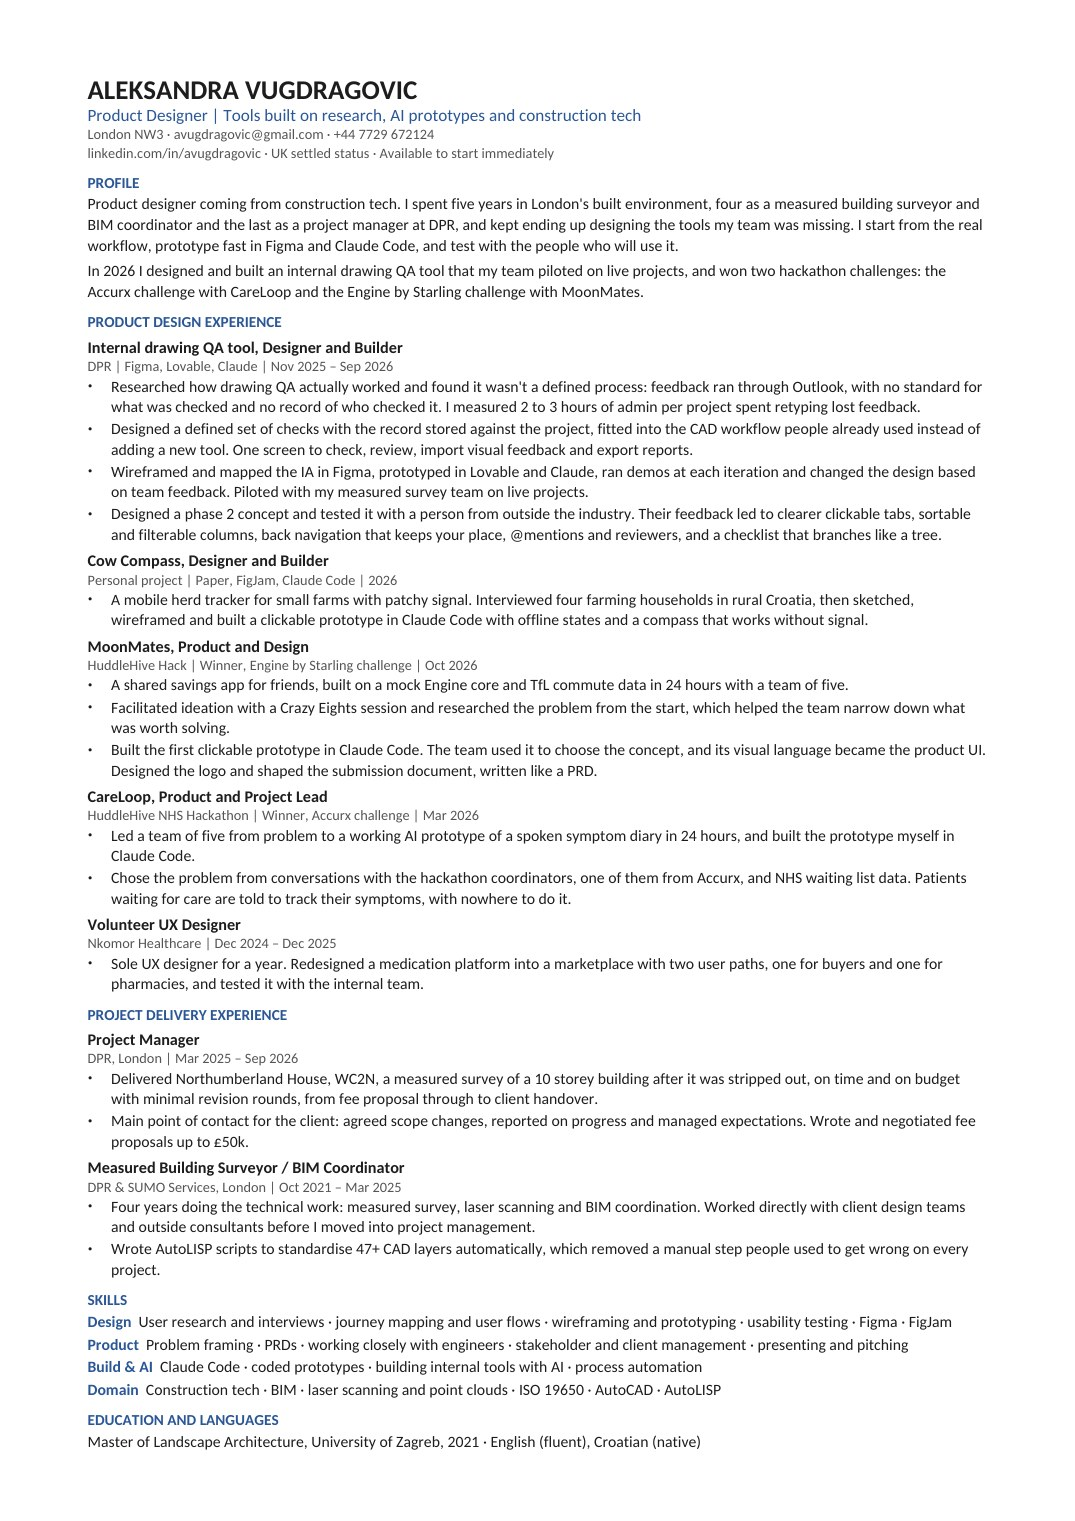
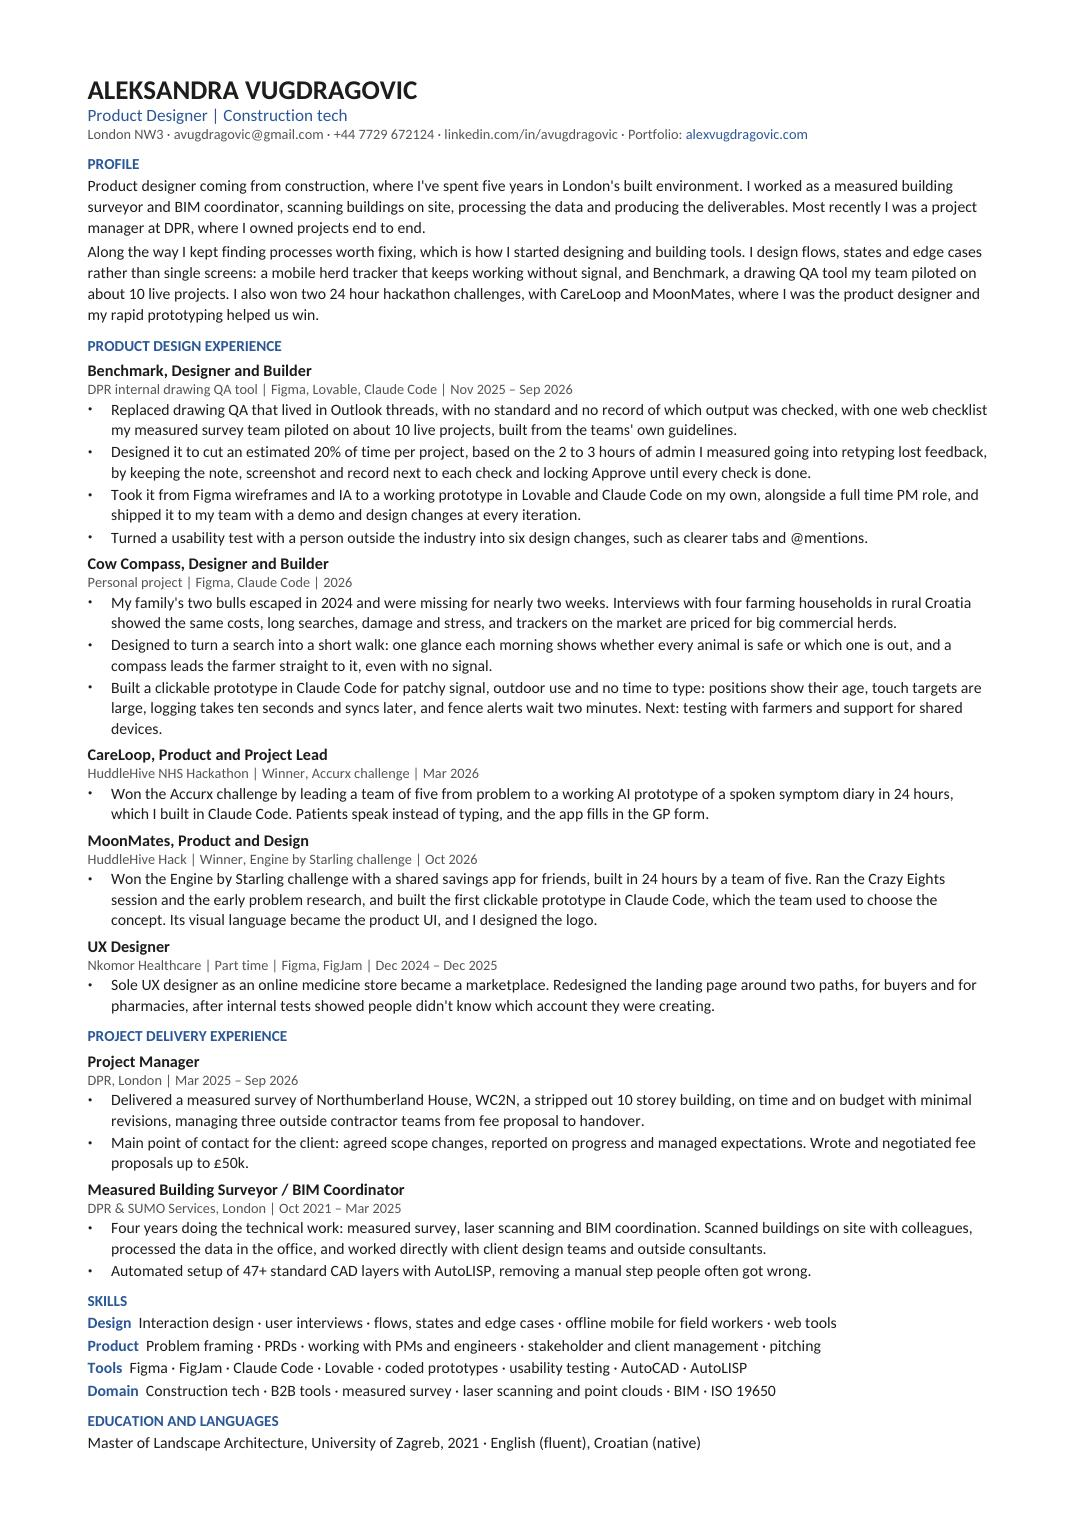
Put the Aphex CV live and name the QA tool Benchmark
The CV window now shows the CV sent to Aphex on 19 Oct, with the QA tool
named Benchmark. The case study, desktop icon, buttons and meta text use
the new name. The #qa-tool address stays so existing links keep working.

Changed region(s): [[0.0614, 0.0618, 0.9209, 0.9579], [0.6447, 0.0618, 0.706, 0.0927]]

diff --git a/site/index.html b/site/index.html
@@ -3,11 +3,11 @@
 <head>
 <meta charset="utf-8">
 <meta name="viewport" content="width=device-width,initial-scale=1,viewport-fit=cover">
-<meta name="description" content="Alex Vugdragovic: product design portfolio. A drawing QA tool piloted at DPR, and MoonMates, a hackathon win.">
+<meta name="description" content="Alex Vugdragovic: product design portfolio. Benchmark, a drawing QA tool piloted at DPR, and MoonMates, a hackathon win.">
 <meta property="og:type" content="website">
 <meta property="og:url" content="https://alexvugdragovic.com/">
 <meta property="og:title" content="Alex Vugdragovic, product design portfolio">
-<meta property="og:description" content="A drawing QA tool piloted at DPR, and MoonMates, a hackathon win.">
+<meta property="og:description" content="Benchmark, a drawing QA tool piloted at DPR, and MoonMates, a hackathon win.">
 <meta property="og:image" content="https://alexvugdragovic.com/media/og.png">
 <meta property="og:image:width" content="1200">
 <meta property="og:image:height" content="630">
@@ -407,7 +407,7 @@ ul.ticks li::before{content:"";position:absolute;left:2px;top:.55em;width:9px;he
     "notion": "https://avugdragovic.notion.site/portfolio"
   },
   "projects": [
-    {"id":"qa-tool","title":"Drawing QA tool","accent":"#3FC1B0","status":"case","meta":"DPR · internal tool · 2025–2026","badge":"piloted",
+    {"id":"qa-tool","title":"Benchmark","accent":"#3FC1B0","status":"case","meta":"DPR · internal tool · 2025–2026","badge":"piloted",
      "summary":"Drawing QA at DPR ran through Outlook, with no shared standard and no record of who checked what. I designed one checklist that keeps the feedback with the project, built the prototype with Lovable and Claude, and piloted it on about 10 projects in my team."},
     {"id":"moonmates","title":"MoonMates","accent":"#FF6B4A","status":"case","meta":"Hackathon · Oct 2026","badge":"winner",
      "summary":"A shared savings app for the friends you keep meaning to see. Won the Engine by Starling challenge at HuddleHive Hack."},
@@ -430,9 +430,9 @@ ul.ticks li::before{content:"";position:absolute;left:2px;top:.55em;width:9px;he
       </div>
     </div>
     <p class="lead">After five years working with spatial data and delivering projects, I now design products. Along the way I kept finding <span class="hl">processes worth fixing</span>, which is how I started designing and building tools.</p>
-    <p><span class="only-desk">This desktop is my portfolio.</span><span class="only-doc">This page is my portfolio.</span> Start with the <b>QA tool</b> I designed and piloted at DPR, or <b>MoonMates</b>, a hackathon win. Everything else is in <b>work/</b>.</p>
+    <p><span class="only-desk">This desktop is my portfolio.</span><span class="only-doc">This page is my portfolio.</span> Start with <b>Benchmark</b>, the drawing QA tool I designed and piloted at DPR, or <b>MoonMates</b>, a hackathon win. Everything else is in <b>work/</b>.</p>
     <div class="btnrow">
-      <button class="btn primary" data-open="qa-tool">Open QA tool</button>
+      <button class="btn primary" data-open="qa-tool">Open Benchmark</button>
       <button class="btn primary" data-open="moonmates">Open MoonMates</button>
       <button class="btn" data-open="work">See all work</button>
       <button class="btn" data-open="about">About</button>
@@ -894,7 +894,7 @@ ul.ticks li::before{content:"";position:absolute;left:2px;top:.55em;width:9px;he
     <div class="stack" style="gap:8px"><span class="k">about.txt</span><h2>From delivering projects to designing products</h2>
       <p class="lead">Hi, I'm Alex, a <span class="hl">Product Designer</span> based in London.</p></div>
     <div class="stack" style="gap:6px"><h3>Background</h3><p>Before moving into design, I spent five years in measured building surveys, laser scanning sites, processing point cloud data, and managing complex spatial data projects from site to client handover. Because I’ve been the end user on the ground, I bring firsthand empathy to highly technical workflows.</p></div>
-    <div class="stack" style="gap:6px"><h3>How I moved into design</h3><p>My transition into design began when I started building tools to fix broken workflows. At DPR, I designed a <a href="#qa-tool" data-open="qa-tool">drawing QA tool</a> that was successfully piloted on about 10 projects. Since then, I’ve sharpened my rapid prototyping skills, recently winning the <a href="#careloop" data-open="careloop">Accurx challenge</a> and the <a href="#moonmates" data-open="moonmates">Engine by Starling challenge</a> at two 2026 hackathons.</p></div>
+    <div class="stack" style="gap:6px"><h3>How I moved into design</h3><p>My transition into design began when I started building tools to fix broken workflows. At DPR, I designed <a href="#qa-tool" data-open="qa-tool">Benchmark</a>, a drawing QA tool that was successfully piloted on about 10 projects. Since then, I’ve sharpened my rapid prototyping skills, recently winning the <a href="#careloop" data-open="careloop">Accurx challenge</a> and the <a href="#moonmates" data-open="moonmates">Engine by Starling challenge</a> at two 2026 hackathons.</p></div>
     <div class="lookfor"><span class="k">What I'm looking for</span><p>I am currently looking for a <b class="hl">Product Design role in Construction Tech or Geospatial</b>, where I can leverage my domain expertise to build products that solve real industry bottlenecks.</p></div>
     <p>My full work history is in my CV. <button class="btn sm" data-open="cv">Open CV.pdf</button></p>
     <div class="stack about-contact" style="gap:10px">
@@ -911,8 +911,8 @@ ul.ticks li::before{content:"";position:absolute;left:2px;top:.55em;width:9px;he
 <template id="t-qa">
   <article class="stack-l">
     <header class="stack" style="gap:10px">
-      <div class="pillrow"><span class="pill piloted">Piloted</span><span class="pill">Internal tool</span><span class="pill">DPR · measured survey</span></div>
-      <h1>Drawing QA tool</h1>
+      <div class="pillrow"><span class="pill piloted">Piloted</span><span class="pill">Drawing QA tool</span><span class="pill">DPR · measured survey</span></div>
+      <h1>Benchmark</h1>
       <p class="lead">Drawing QA at DPR ran through Outlook threads, with no shared standard and no record of who checked what. I designed one checklist that keeps the feedback and the record with the project, built the prototype with Lovable and Claude alongside my PM job, and piloted it on about 10 projects in my team.</p>
     </header>
 
@@ -986,7 +986,7 @@ ul.ticks li::before{content:"";position:absolute;left:2px;top:.55em;width:9px;he
           <p>Sorting the pain points by who raised them split them into two problems. QA happened on every project and rework started there, so I built for that.</p>
         </div>
       </div>
-      <div class="diagram-wrap"><svg class="diagram" viewBox="0 0 760 324" role="img" aria-label="Research found two problems, project management and quality assurance. Only quality assurance became the tool." font-family="DM Sans, sans-serif" font-size="13"><defs><marker id="scope-arrow" viewBox="0 0 10 10" refX="9" refY="5" markerWidth="6" markerHeight="6" orient="auto-start-reverse"><path d="M0 0L10 5L0 10z" fill="#16181F"/></marker></defs><text x="24" y="34" font-size="16" font-weight="700" font-family="Space Grotesk, sans-serif" fill="#16181F">Research found two problems. I built for one.</text><rect x="24" y="56" width="340" height="156" rx="8" fill="#FBF9F4" stroke="#16181F" stroke-width="1.5"/><text x="40" y="82" font-size="15" font-weight="700" font-family="Space Grotesk, sans-serif" fill="#16181F">Project management</text><text x="40" y="100" font-size="11.5" fill="#585D69">raised by people managing contractors</text><text x="40" y="128" fill="#16181F">Deadlines missed without notice</text><text x="40" y="150" fill="#16181F">No view of the budget on a project</text><text x="40" y="172" fill="#16181F">Unclear stage when someone is on leave</text><text x="40" y="194" fill="#16181F">Progress tracked in separate spreadsheets</text><rect x="396" y="56" width="340" height="156" rx="8" fill="#FBF9F4" stroke="#16181F" stroke-width="1.5"/><text x="412" y="82" font-size="15" font-weight="700" font-family="Space Grotesk, sans-serif" fill="#16181F">Quality assurance</text><text x="412" y="100" font-size="11.5" fill="#585D69">raised by people doing the QA</text><text x="412" y="128" fill="#16181F">No shared QA process across teams</text><text x="412" y="150" fill="#16181F">Feedback sent as screenshots in emails</text><text x="412" y="172" fill="#16181F">No record of who checked what</text><text x="412" y="194" fill="#16181F">No shared examples of good practice</text><g fill="none" stroke="#16181F" stroke-width="1.5" marker-end="url(#scope-arrow)"><path d="M194 212V244"/><path d="M566 212V244"/></g><rect x="24" y="244" width="340" height="56" rx="8" fill="none" stroke="#585D69" stroke-width="1.5" stroke-dasharray="5 5"/><text x="194" y="268" text-anchor="middle" font-weight="700" fill="#585D69">Left out</text><text x="194" y="286" text-anchor="middle" font-size="11.5" fill="#585D69">needs a project management tool, not a QA tool</text><rect x="396" y="244" width="340" height="56" rx="8" fill="rgba(63,193,176,.2)" stroke="#1F8F80" stroke-width="2"/><text x="566" y="268" text-anchor="middle" font-weight="700" fill="#16181F">Built: QA tool</text><text x="566" y="286" text-anchor="middle" font-size="11.5" fill="#16181F">Checklist · Screenshots · Report</text></svg></div>
+      <div class="diagram-wrap"><svg class="diagram" viewBox="0 0 760 324" role="img" aria-label="Research found two problems, project management and quality assurance. Only quality assurance became the tool." font-family="DM Sans, sans-serif" font-size="13"><defs><marker id="scope-arrow" viewBox="0 0 10 10" refX="9" refY="5" markerWidth="6" markerHeight="6" orient="auto-start-reverse"><path d="M0 0L10 5L0 10z" fill="#16181F"/></marker></defs><text x="24" y="34" font-size="16" font-weight="700" font-family="Space Grotesk, sans-serif" fill="#16181F">Research found two problems. I built for one.</text><rect x="24" y="56" width="340" height="156" rx="8" fill="#FBF9F4" stroke="#16181F" stroke-width="1.5"/><text x="40" y="82" font-size="15" font-weight="700" font-family="Space Grotesk, sans-serif" fill="#16181F">Project management</text><text x="40" y="100" font-size="11.5" fill="#585D69">raised by people managing contractors</text><text x="40" y="128" fill="#16181F">Deadlines missed without notice</text><text x="40" y="150" fill="#16181F">No view of the budget on a project</text><text x="40" y="172" fill="#16181F">Unclear stage when someone is on leave</text><text x="40" y="194" fill="#16181F">Progress tracked in separate spreadsheets</text><rect x="396" y="56" width="340" height="156" rx="8" fill="#FBF9F4" stroke="#16181F" stroke-width="1.5"/><text x="412" y="82" font-size="15" font-weight="700" font-family="Space Grotesk, sans-serif" fill="#16181F">Quality assurance</text><text x="412" y="100" font-size="11.5" fill="#585D69">raised by people doing the QA</text><text x="412" y="128" fill="#16181F">No shared QA process across teams</text><text x="412" y="150" fill="#16181F">Feedback sent as screenshots in emails</text><text x="412" y="172" fill="#16181F">No record of who checked what</text><text x="412" y="194" fill="#16181F">No shared examples of good practice</text><g fill="none" stroke="#16181F" stroke-width="1.5" marker-end="url(#scope-arrow)"><path d="M194 212V244"/><path d="M566 212V244"/></g><rect x="24" y="244" width="340" height="56" rx="8" fill="none" stroke="#585D69" stroke-width="1.5" stroke-dasharray="5 5"/><text x="194" y="268" text-anchor="middle" font-weight="700" fill="#585D69">Left out</text><text x="194" y="286" text-anchor="middle" font-size="11.5" fill="#585D69">needs a project management tool, not a QA tool</text><rect x="396" y="244" width="340" height="56" rx="8" fill="rgba(63,193,176,.2)" stroke="#1F8F80" stroke-width="2"/><text x="566" y="268" text-anchor="middle" font-weight="700" fill="#16181F">Built: Benchmark</text><text x="566" y="286" text-anchor="middle" font-size="11.5" fill="#16181F">Checklist · Screenshots · Report</text></svg></div>
       <div class="decisions">
         <div class="decision">
           <svg class="sym" viewBox="0 0 44 44" aria-hidden="true"><rect x="6" y="5" width="32" height="34" rx="4" fill="#FBF9F4" stroke="#16181F" stroke-width="2"/><path d="M12 15l3 3 6-6M12 26l3 3 6-6" fill="none" stroke="#1F8F80" stroke-width="2.5" stroke-linecap="round" stroke-linejoin="round"/><path d="M25 16h8M25 27h8" stroke="#16181F" stroke-width="2" stroke-linecap="round"/></svg>
@@ -1011,7 +1011,7 @@ ul.ticks li::before{content:"";position:absolute;left:2px;top:.55em;width:9px;he
       <p class="small-note">Screens from the phase 2 concept, rebuilt in Lovable with invented projects and people. The two report screens are from the version my team piloted. The queue, the tree, @mentions and the failed check came after the usability test. Click a screen to enlarge it.</p>
       <figure class="uifig"><img class="ui zoom" src="media/qa_03_fail_check_crop.png" data-full="media/qa_03_fail_check_conversation.png" alt="A failed check, No double lines or duplicate points, open in place with the reviewer note and a screenshot slot, between checks marked Pass" loading="lazy"><figcaption><b>After the test.</b> The checks use the teams' own words. A failed check opens where it sits, with the note and the screenshot slot, so the feedback stays next to its check.</figcaption></figure>
       <figure class="uifig"><img class="ui zoom" src="media/qa_06_report_bar.png" data-full="media/qa_06_report_issue.png" style="max-width:632px" alt="Report actions: Export report, Return for fixes, and Approve greyed out with the note Finish all checks to approve" loading="lazy"><figcaption><b>In the pilot.</b> Approve stays locked until every check is done. Return for fixes sends the work back.</figcaption></figure>
-      <div class="strip wide" tabindex="0" aria-label="QA tool screens, scroll sideways"><figure><img class="zoom" src="media/qa_01_queue_filters.png" alt="The review queue with a filter open on the Team column" loading="lazy"><figcaption><b>After the test.</b> The review queue. Every column sorts and filters.</figcaption></figure><figure><img class="zoom" src="media/qa_02_review_header_tree.png" alt="A drawing review with job details, progress and the checklist as a tree" loading="lazy"><figcaption><b>After the test.</b> A review: job details, progress and the checklist as a tree.</figcaption></figure><figure><img class="zoom" src="media/qa_03_fail_check_conversation.png" alt="A failed check with the reviewer note, a screenshot slot and the conversation" loading="lazy"><figcaption><b>After the test.</b> A failed check opens in place, with a note, a screenshot slot and the conversation.</figcaption></figure><figure><img class="zoom" src="media/qa_04_mention.png" alt="Typing @ in a comment suggests a colleague with role and team" loading="lazy"><figcaption><b>After the test.</b> Typing @ suggests people with their role and team.</figcaption></figure><figure><img class="zoom" src="media/qa_05_report_summary.png" alt="Report summary counting issues, improvements and checks not done" loading="lazy"><figcaption><b>In the pilot.</b> The report counts issues, improvements and checks not done.</figcaption></figure><figure><img class="zoom" src="media/qa_06_report_issue.png" alt="An issue in the report with Approve locked" loading="lazy"><figcaption><b>In the pilot.</b> Approve stays locked until every check is done.</figcaption></figure></div>
+      <div class="strip wide" tabindex="0" aria-label="Benchmark screens, scroll sideways"><figure><img class="zoom" src="media/qa_01_queue_filters.png" alt="The review queue with a filter open on the Team column" loading="lazy"><figcaption><b>After the test.</b> The review queue. Every column sorts and filters.</figcaption></figure><figure><img class="zoom" src="media/qa_02_review_header_tree.png" alt="A drawing review with job details, progress and the checklist as a tree" loading="lazy"><figcaption><b>After the test.</b> A review: job details, progress and the checklist as a tree.</figcaption></figure><figure><img class="zoom" src="media/qa_03_fail_check_conversation.png" alt="A failed check with the reviewer note, a screenshot slot and the conversation" loading="lazy"><figcaption><b>After the test.</b> A failed check opens in place, with a note, a screenshot slot and the conversation.</figcaption></figure><figure><img class="zoom" src="media/qa_04_mention.png" alt="Typing @ in a comment suggests a colleague with role and team" loading="lazy"><figcaption><b>After the test.</b> Typing @ suggests people with their role and team.</figcaption></figure><figure><img class="zoom" src="media/qa_05_report_summary.png" alt="Report summary counting issues, improvements and checks not done" loading="lazy"><figcaption><b>In the pilot.</b> The report counts issues, improvements and checks not done.</figcaption></figure><figure><img class="zoom" src="media/qa_06_report_issue.png" alt="An issue in the report with Approve locked" loading="lazy"><figcaption><b>In the pilot.</b> Approve stays locked until every check is done.</figcaption></figure></div>
     </section>
 
     <section class="stack">
@@ -1124,7 +1124,7 @@ const WINS={
   hello:{title:'hello.txt',accent:'var(--gold)',w:470,tpl:'t-hello'},
   work:{title:'work/',accent:'var(--blue)',w:640,tpl:'t-work'},
   moonmates:{title:'moonmates/case-study.md',right:'winner',accent:'var(--coral)',w:720,tall:true,tpl:'t-moonmates'},
-  'qa-tool':{title:'qa-tool/case-study.md',right:'piloted',accent:'var(--teal)',w:720,tall:true,tpl:'t-qa'},
+  'qa-tool':{title:'benchmark/case-study.md',right:'piloted',accent:'var(--teal)',w:720,tall:true,tpl:'t-qa'},
   careloop:{title:'careloop/case-study.md',right:'winner',accent:'var(--blue)',w:720,tall:true,tpl:'t-careloop'},
   'cow-compass':{title:'cow-compass/case-study.md',right:'concept',accent:'#7DC46A',w:720,tall:true,tpl:'t-cow-compass'},
   about:{title:'about.txt',accent:'var(--lilac)',w:600,tpl:'t-about'},
@@ -1321,7 +1321,7 @@ document.addEventListener('keydown',e=>{if(e.key==='Escape'&&!lb.hidden){closeLb
 
 /* desktop icons */
 const ICON_SYM={hello:['TXT','#F2C14E'],work:['DIR','#6FA8FF'],moonmates:['DIR','#FF6B4A'],'qa-tool':['DIR','#3FC1B0'],careloop:['DIR','#6FA8FF'],'cow-compass':['DIR','#7DC46A'],about:['TXT','#B79CFF'],cv:['PDF','#FF6B4A'],contact:['MSN','#3FC1B0'],bagcheck:['APP','#F5B544']};
-const LABEL={hello:'hello.txt',work:'work/',moonmates:'moonmates/','qa-tool':'qa-tool/',careloop:'careloop/','cow-compass':'cow-compass/',about:'about.txt',cv:'CV.pdf',contact:'contact.txt',bagcheck:'bagcheck.app'};
+const LABEL={hello:'hello.txt',work:'work/',moonmates:'moonmates/','qa-tool':'benchmark/',careloop:'careloop/','cow-compass':'cow-compass/',about:'about.txt',cv:'CV.pdf',contact:'contact.txt',bagcheck:'bagcheck.app'};
 function iconSvg(kind,c,sfx=''){
   if(kind==='MSN')return `<svg width="52" height="50" viewBox="0 0 52 50" aria-hidden="true"><defs><radialGradient id="buddyB${sfx}" cx="35%" cy="30%" r="80%"><stop offset="0" stop-color="#A8DBFF"/><stop offset=".5" stop-color="#2E8BE6"/><stop offset="1" stop-color="#15529E"/></radialGradient><radialGradient id="buddyG${sfx}" cx="35%" cy="30%" r="80%"><stop offset="0" stop-color="#C6F58E"/><stop offset=".5" stop-color="#4DB52A"/><stop offset="1" stop-color="#22731A"/></radialGradient></defs><g stroke="#0C0F15" stroke-width="2" stroke-linejoin="round"><path d="M22 40c0-11 5-17 12-17s12 6 12 17z" fill="url(#buddyB${sfx})"/><circle cx="34" cy="13" r="8" fill="url(#buddyB${sfx})"/><path d="M5 48c0-12 6-18 14-18s14 6 14 18z" fill="url(#buddyG${sfx})"/><circle cx="19" cy="19" r="9" fill="url(#buddyG${sfx})"/></g><ellipse cx="16" cy="15" rx="3.6" ry="2.2" fill="#fff" opacity=".55" transform="rotate(-25 16 15)"/><ellipse cx="31.5" cy="9.5" rx="3" ry="1.8" fill="#fff" opacity=".55" transform="rotate(-25 31.5 9.5)"/></svg>`;
   if(kind==='APP')return `<svg width="50" height="50" viewBox="0 0 32 32" aria-hidden="true"><rect x="1" y="1" width="30" height="30" rx="8" fill="${c}" stroke="#0C0F15" stroke-width="2"/><path d="M8 15 Q16 9 24 15" stroke="#1A1405" stroke-width="2.2" fill="none" stroke-linecap="round"/><path d="M9.5 20 Q16 25 22.5 20" stroke="#1A1405" stroke-width="2.2" fill="none" stroke-linecap="round"/></svg>`;
